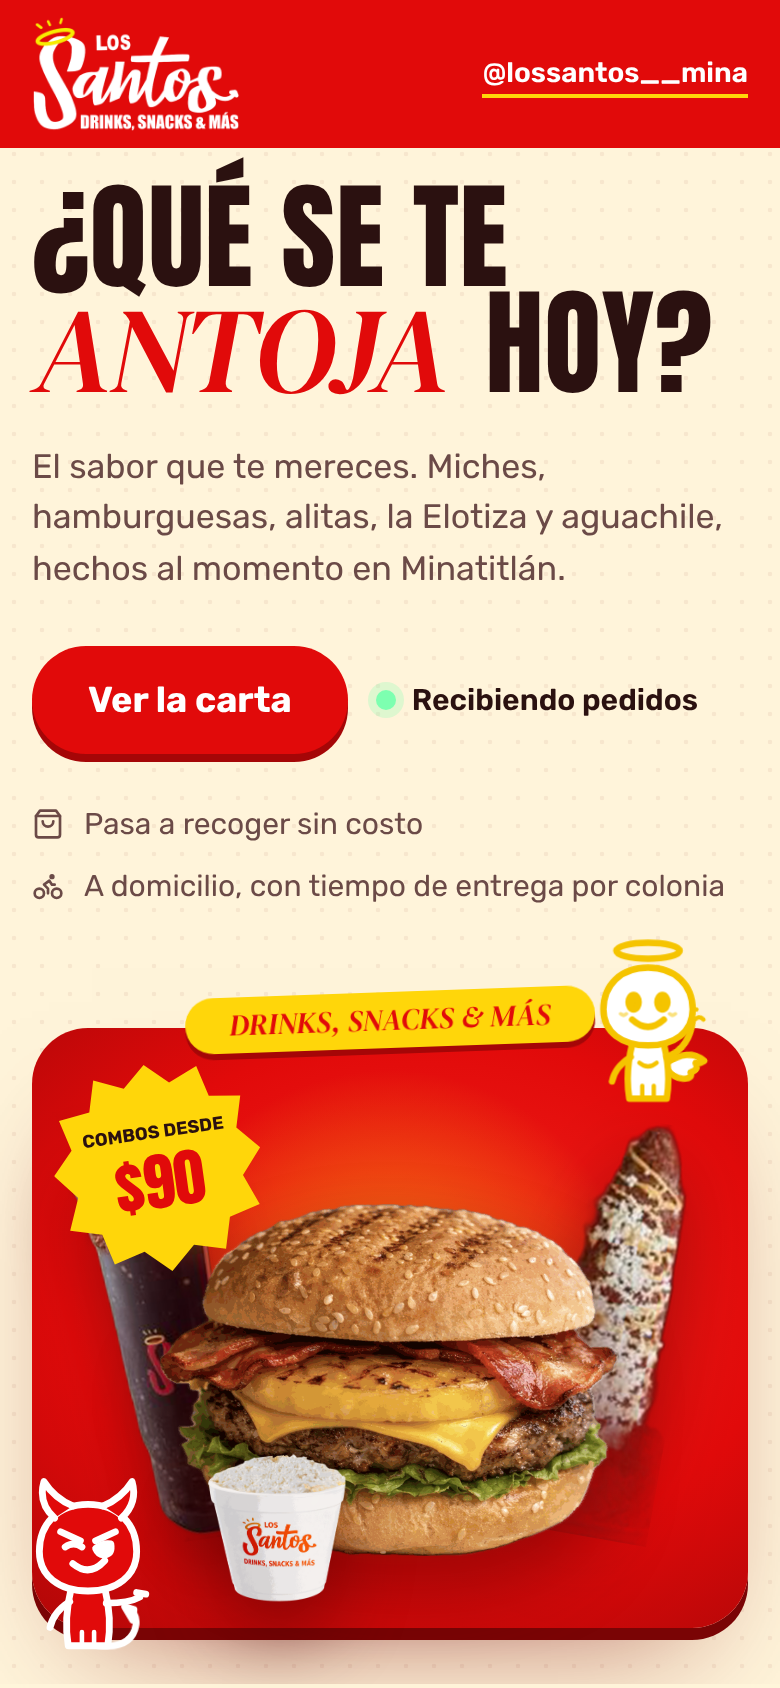
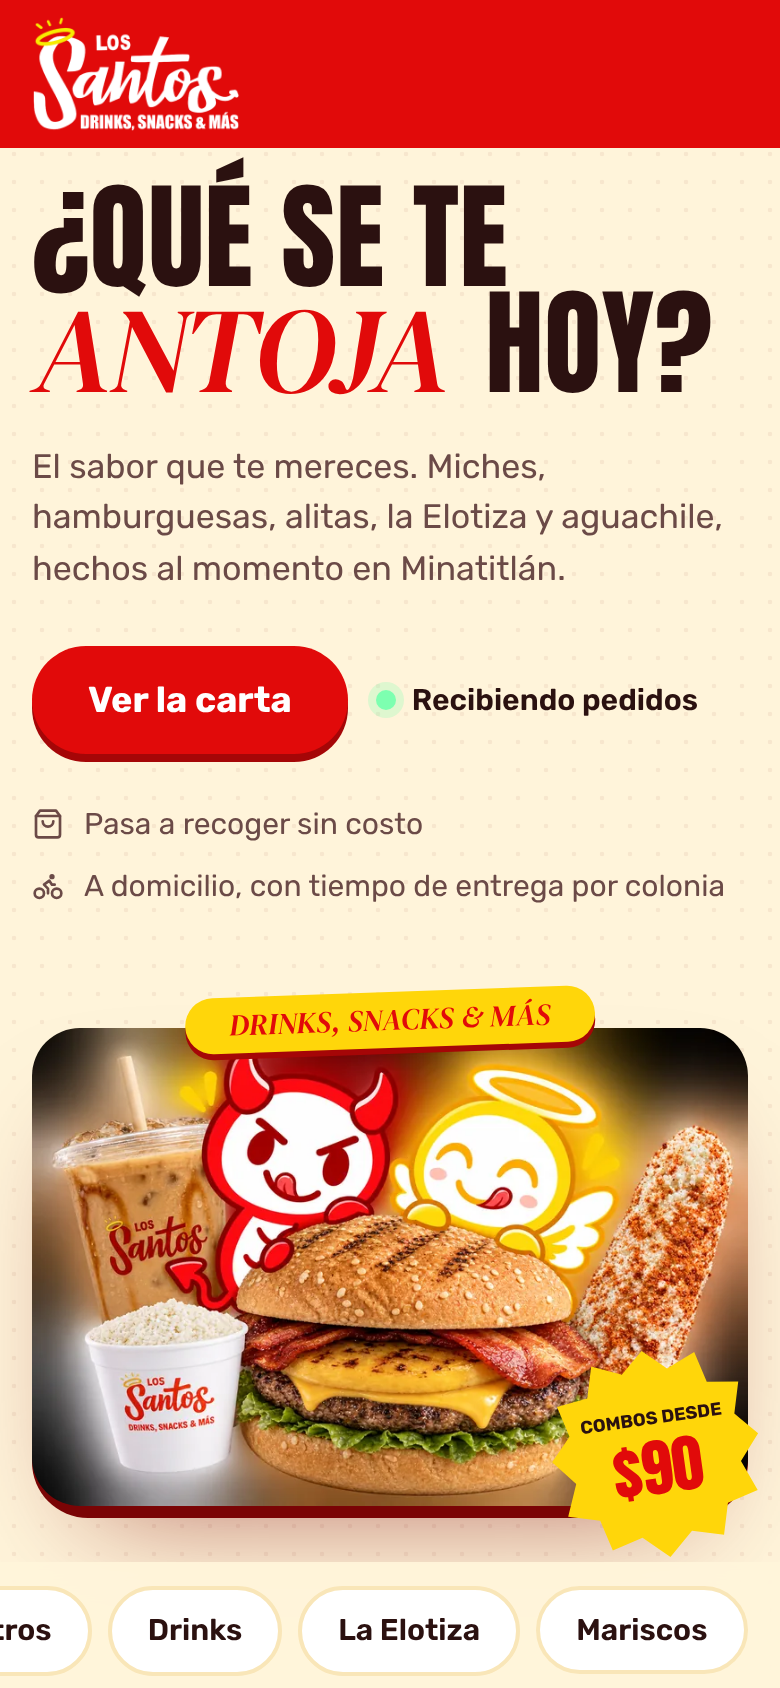
feat: portada con imagen oficial, botón para instalar la app y cloud-init público
Claude-Session: https://claude.ai/code/session_01C7ZirhY37d6g1ZN4eAKayi

diff --git a/src/main.jsx b/src/main.jsx
@@ -28,6 +28,22 @@ function App() {
     [loginError, setLoginError] = useState(""),
     [busy, setBusy] = useState(false);
   const epoch = useRef(0);
+  // Android/Chrome: botón para instalar la tienda como app en el teléfono.
+  const [install, setInstall] = useState(null);
+  useEffect(() => {
+    const onPrompt = (e) => {
+      e.preventDefault();
+      setInstall(e);
+    };
+    window.addEventListener("beforeinstallprompt", onPrompt);
+    window.addEventListener("appinstalled", () => setInstall(null));
+    return () => window.removeEventListener("beforeinstallprompt", onPrompt);
+  }, []);
+  async function promptInstall() {
+    install?.prompt();
+    await install?.userChoice.catch(() => {});
+    setInstall(null);
+  }
   const staff = role === "staff" || role === "owner";
   const safeView =
     role === "customer"
@@ -227,16 +243,24 @@ function App() {
             <button onClick={logout}>Cerrar sesión</button>
           </div>
         ) : (
-          !personal &&
-          catalog.settings?.instagram && (
-            <a
-              className="topbar-social"
-              href={"https://instagram.com/" + catalog.settings.instagram}
-              target="_blank"
-              rel="noopener noreferrer"
-            >
-              @{catalog.settings.instagram}
-            </a>
+          !personal && (
+            <div className="topbar-end">
+              {install && (
+                <button className="install-app" onClick={promptInstall}>
+                  Instalar app
+                </button>
+              )}
+              {catalog.settings?.instagram && (
+                <a
+                  className="topbar-social"
+                  href={"https://instagram.com/" + catalog.settings.instagram}
+                  target="_blank"
+                  rel="noopener noreferrer"
+                >
+                  @{catalog.settings.instagram}
+                </a>
+              )}
+            </div>
           )
         )}
       </header>
@@ -316,7 +340,10 @@ function App() {
               <Mascot kind="devil" pose="fiesta" tone="#fff" fill="#e10a0a" />
               <Mascot kind="angel" pose="fiesta" fill="#e10a0a" />
             </div>
-            <small>Precios en pesos mexicanos. Las fotos son ilustrativas.</small>
+            <small>
+              Precios en pesos mexicanos. Las fotos son ilustrativas. En iPhone: Compartir →
+              “Agregar a inicio” para tenerla como app.
+            </small>
           </div>
         </footer>
       )}

diff --git a/src/views/Shop.jsx b/src/views/Shop.jsx
@@ -197,15 +197,25 @@ export default function Shop({ catalog, run, tracking, setTracking }) {
             )}
           </ul>
         </div>
-        <div className="hero-board" aria-label="Miche, hamburguesa, elote espolvoreado y esquites">
+        <div className="hero-board">
           <span className="ribbon hero-ribbon">Drinks, snacks &amp; más</span>
-          <span className="hero-sun" aria-hidden="true" />
-          <img className="hero-item hero-miche" src="/images/products/miche.png" alt="" />
-          <img className="hero-item hero-burger" src="/images/products/hamburguesa-tocino-pina.png" alt="Hamburguesa hawaiana" width="720" height="552" />
-          <img className="hero-item hero-elote" src="/images/products/elote-espolvoreado.png" alt="" />
-          <img className="hero-item hero-esquite" src="/images/products/esquites-vaso-logo.png" alt="" />
-          <Mascot kind="angel" pose="hola" className="hero-angel" />
-          <Mascot kind="devil" pose="guino" tone="#fff" fill="#e10a0a" className="hero-devil" />
+          <picture>
+            <source
+              type="image/webp"
+              srcSet="/images/hero-santos-800.webp 800w, /images/hero-santos.webp 1536w"
+              sizes="(max-width: 1000px) 100vw, 50vw"
+            />
+            <img
+              className="hero-photo"
+              src="/images/hero-santos.jpg"
+              srcSet="/images/hero-santos-800.jpg 800w, /images/hero-santos.jpg 1536w"
+              sizes="(max-width: 1000px) 100vw, 50vw"
+              width="1536"
+              height="1024"
+              fetchPriority="high"
+              alt="El diablito y el ángel de Los Santos se asoman tras una hamburguesa con tocino y piña, café frío, esquites y elote"
+            />
+          </picture>
           {Number.isFinite(combosFrom) && (
             <a className="burst hero-burst" href={"#" + slugify("Combos")}>
               <small>Combos desde</small>

diff --git a/src/style.css b/src/style.css
@@ -3133,3 +3133,57 @@ body {
   right: 6px;
   width: 60px;
 }
+
+/* Portada con la imagen oficial (ángel y diablito con los productos) */
+.hero-board {
+  min-height: 0;
+  background: #1a0606;
+  padding: 0;
+  overflow: visible;
+}
+.hero-board picture,
+.hero-photo {
+  display: block;
+  width: 100%;
+  height: auto;
+  aspect-ratio: 3 / 2;
+  object-fit: cover;
+  border-radius: 36px;
+}
+.hero-board .hero-burst {
+  top: auto;
+  bottom: -22px;
+  left: auto;
+  right: -14px;
+  --size: clamp(104px, 11vw, 140px);
+}
+@media (max-width: 760px) {
+  .hero-board picture,
+  .hero-photo {
+    border-radius: 24px;
+  }
+  .hero-board .hero-burst {
+    right: -6px;
+    bottom: -26px;
+  }
+}
+
+.topbar-end {
+  display: flex;
+  align-items: center;
+  gap: 12px;
+}
+.install-app {
+  min-height: 38px;
+  padding: 0 14px;
+  border-radius: 999px;
+  background: var(--halo);
+  color: var(--carbon);
+  font-weight: 700;
+  font-size: 14px;
+}
+@media (max-width: 420px) {
+  .topbar-end .topbar-social {
+    display: none;
+  }
+}

diff --git a/index.html b/index.html
@@ -7,7 +7,9 @@
     <link rel="manifest" href="/manifest.webmanifest" />
     <link rel="apple-touch-icon" href="/apple-touch-icon.png" />
     <link rel="icon" type="image/png" href="/favicon.png" />
-    <link rel="preload" as="image" href="/images/products/hamburguesa-tocino-pina.png" />
+    <link rel="preload" as="image" href="/images/hero-santos-800.webp" imagesrcset="/images/hero-santos-800.webp 800w, /images/hero-santos.webp 1536w" imagesizes="(max-width: 1000px) 100vw, 50vw" type="image/webp" />
+    <meta property="og:image" content="/images/hero-santos.jpg" />
+    <meta property="og:title" content="Los Santos · ¿Qué se te antoja hoy?" />
     <meta name="description" content="Pide en línea a Los Santos, Minatitlán: drinks, mariscos, hamburguesas, wings, boneless y snacks. Recoge o recibe a domicilio." />
     <title>Los Santos · Pedidos</title>
   </head>
